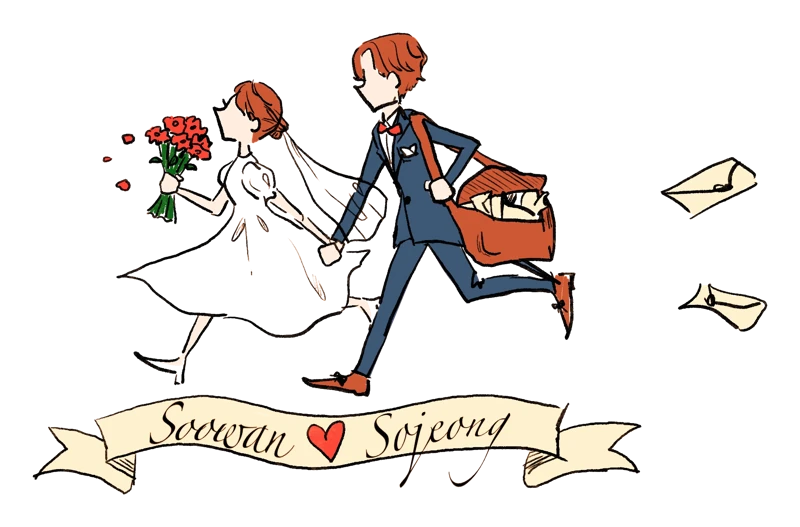
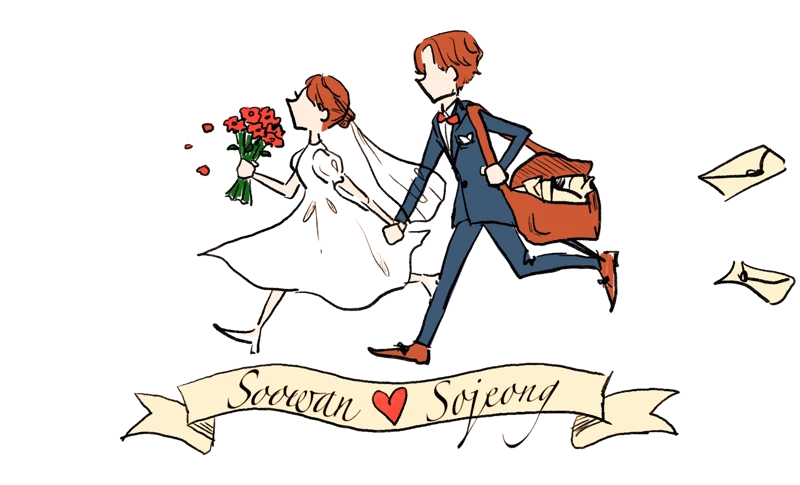
화이트 테마 확정(토글 제거), 신랑신부 기준으로 그림 중앙 정렬 재처리, OG 이미지 흰 배경

diff --git a/js/main.js b/js/main.js
@@ -34,16 +34,9 @@
   $$("[data-action=copy]").forEach((el) => el.addEventListener("click", () => copy(get(el.dataset.copy))));
   $$("[data-action=toggle]").forEach((el) => el.addEventListener("click", () => { const t = $(el.dataset.target); t.hidden = !t.hidden; }));
 
-  /* ── 테마 (검토용) ── */
-  const applyTheme = (t) => {
-    document.documentElement.dataset.theme = t;
-    $$("#themeSwitch button").forEach((b) => b.classList.toggle("is-active", b.dataset.theme === t));
-    try { localStorage.setItem("theme", t); } catch {}
-  };
+  /* ── 테마: 화이트 고정 (?theme=cream 으로 비교만 가능) ── */
   const qTheme = new URLSearchParams(location.search).get("theme");
-  let saved = null; try { saved = localStorage.getItem("theme"); } catch {}
-  applyTheme(qTheme || saved || "cream");
-  $$("#themeSwitch button").forEach((b) => b.addEventListener("click", () => applyTheme(b.dataset.theme)));
+  if (qTheme) document.documentElement.dataset.theme = qTheme;
 
   /* ── 봉투 인트로 ── */
   const env = $("#envelope");

diff --git a/index.html b/index.html
@@ -1,5 +1,5 @@
 <!doctype html>
-<html lang="ko" data-theme="cream">
+<html lang="ko" data-theme="white">
 <head>
   <meta charset="utf-8">
   <meta name="viewport" content="width=device-width, initial-scale=1, viewport-fit=cover">
@@ -177,12 +177,6 @@
     <div class="footer__share reveal">
       <button class="btn btn--primary" id="shareKakao" hidden>카카오톡으로 공유</button>
       <button class="btn btn--ghost" id="shareLink">링크 복사</button>
-    </div>
-
-    <!-- 검토용 테마 전환 — 확정 후 제거 -->
-    <div class="themeSwitch" id="themeSwitch">
-      <button data-theme="cream">크림</button>
-      <button data-theme="white">화이트</button>
     </div>
   </footer>
 </main>

diff --git a/css/style.css b/css/style.css
@@ -363,9 +363,6 @@ small { font-weight: 300; }
 .footer__thanks { margin: 6px 0 32px; font-size: 13.5px; color: var(--ink-soft); }
 .footer__share { display: flex; justify-content: center; gap: 8px; }
 
-.themeSwitch { margin-top: 40px; display: inline-flex; border: 1px solid var(--line); border-radius: 999px; overflow: hidden; font-size: 11px; }
-.themeSwitch button { padding: 5px 12px; color: var(--ink-soft); }
-.themeSwitch button.is-active { background: var(--ink); color: var(--bg); }
 
 /* 토스트 */
 .toast {
